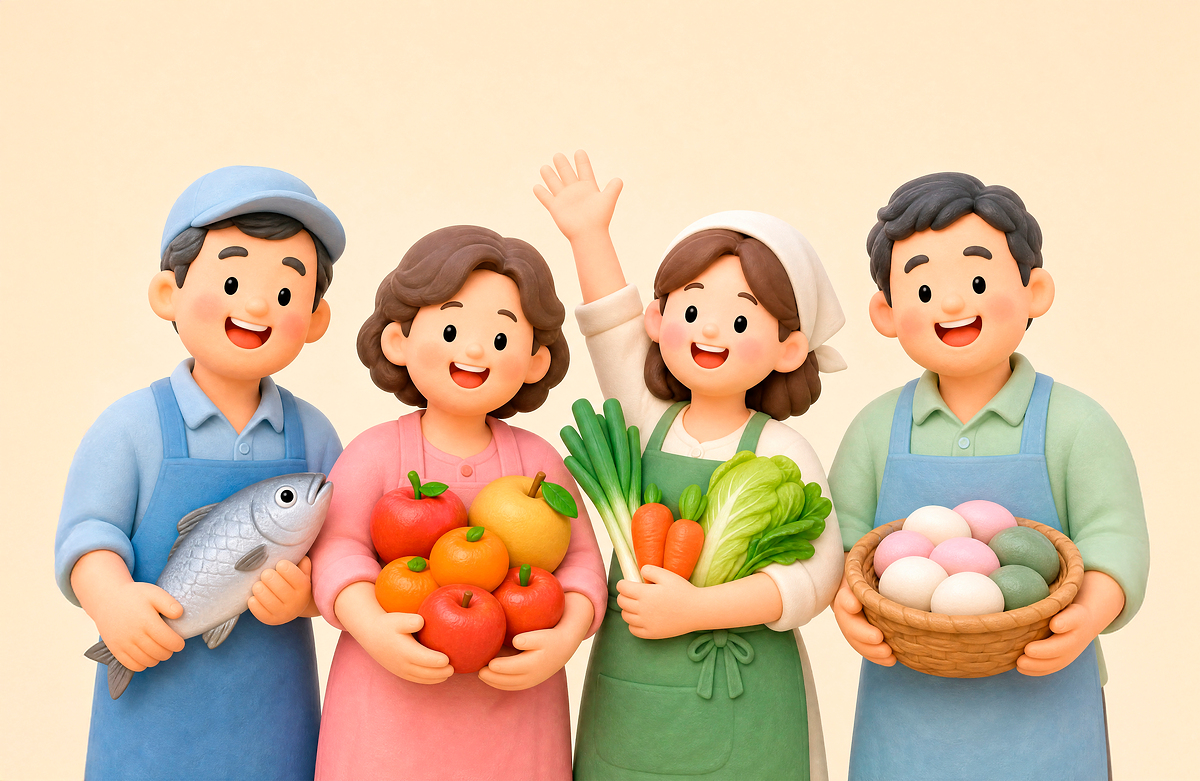
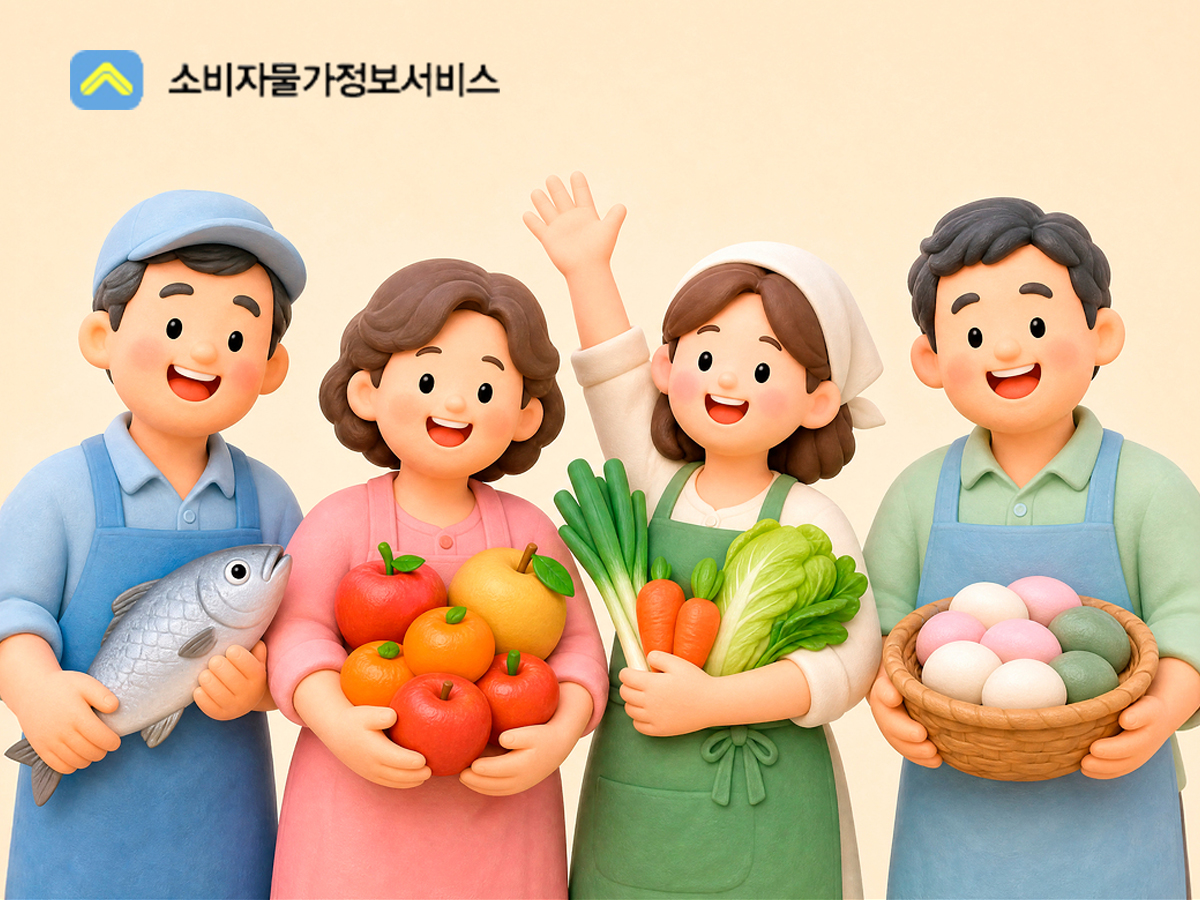
포트폴리오 영역 수정

diff --git a/index.html b/index.html
@@ -96,11 +96,7 @@
             </div>
 
             <div class="project-list">
-              <a class="project-card" aria-label="법제처 국가법령정보센터 상세 설명 새 창 열림" data-cursor="VIEW" href="https://app.notion.com/p/3be8c72c7f6f80be93f3da1cd67993e3?source=copy_link" target="_blank">
-                <div class="project-meta">
-                  <span>01</span>
-                  <em>WEB</em>
-                </div>
+              <a class="project-card" aria-label="법제처 국가법령정보센터 상세 설명 새 창 열림" data-cursor="VIEW" href="https://spiky-cereal-c6c.notion.site/3dd8c72c7f6f80e3b13af34782ce3ec7?pvs=74" target="_blank">
                 <div class="project-visual">
                   <img src="./assets/images/work/img-thumb-law2.webp" alt="">
                 </div>
@@ -110,13 +106,9 @@
                 </div>
               </a>
 
-              <a class="project-card" aria-label="중앙노동위원회 온라인사건신청 상세 설명 새 창 열림" data-cursor="VIEW" href="https://app.notion.com/p/3be8c72c7f6f80be93f3da1cd67993e3?source=copy_link" target="_blank">
-                <div class="project-meta">
-                  <span>02</span>
-                  <em>WEB</em>
-                </div>
+              <a class="project-card" aria-label="중앙노동위원회 온라인사건신청 상세 설명 새 창 열림" data-cursor="VIEW" href="https://spiky-cereal-c6c.notion.site/3be8c72c7f6f80be93f3da1cd67993e3" target="_blank">
                 <div class="project-visual">
-                  <img src="./assets/images/work/img-thumb-nlrc2.jpg" alt="">
+                  <img src="./assets/images/work/img-thumb-nlrc2.webp" alt="">
                 </div>
                 <div class="project-footer">
                   <p>안정화 및 웹접근성 지원</p>
@@ -124,11 +116,7 @@
                 </div>
               </a>
 
-              <a class="project-card" aria-label="안전보건공단 종합포털 상세 설명 새 창 열림" data-cursor="VIEW" href="https://app.notion.com/p/3be8c72c7f6f8093b109cabbd47119b7?source=copy_link" target="_blank">
-                <div class="project-meta">
-                  <span>03</span>
-                  <em>WEB</em>
-                </div>
+              <a class="project-card" aria-label="안전보건공단 종합포털 상세 설명 새 창 열림" data-cursor="VIEW" href="https://spiky-cereal-c6c.notion.site/3be8c72c7f6f8093b109cabbd47119b7" target="_blank">
                 <div class="project-visual">
                   <img src="./assets/images/work/img-thumb-kosha.jpg" alt="">
                 </div>
@@ -138,11 +126,7 @@
                 </div>
               </a>
 
-              <a class="project-card" aria-label="한국중소벤처기업유통원 데이터관리시스템 상세 설명 새 창 열림" data-cursor="VIEW" href="https://app.notion.com/p/3be8c72c7f6f80bdbc1edc582249ab8b?source=copy_link" target="_blank">
-                <div class="project-meta">
-                  <span>04</span>
-                  <em>WEB</em>
-                </div>
+              <a class="project-card" aria-label="한국중소벤처기업유통원 데이터관리시스템 상세 설명 새 창 열림" data-cursor="VIEW" href="https://spiky-cereal-c6c.notion.site/3be8c72c7f6f80bdbc1edc582249ab8b" target="_blank">
                 <div class="project-visual">
                   <img src="./assets/images/work/img-thumb-kodmap.jpg" alt="">
                 </div>
@@ -152,11 +136,7 @@
                 </div>
               </a>
 
-              <a class="project-card" aria-label="고용노동부 청년일자리정책 홍보페이지 상세 설명 새 창 열림" data-cursor="VIEW" href="https://app.notion.com/p/3be8c72c7f6f80be93f3da1cd67993e3?source=copy_link" target="_blank">
-                <div class="project-meta">
-                  <span>05</span>
-                  <em>WEB</em>
-                </div>
+              <a class="project-card" aria-label="고용노동부 청년일자리정책 홍보페이지 상세 설명 새 창 열림" data-cursor="VIEW" href="https://spiky-cereal-c6c.notion.site/3bf8c72c7f6f80659ef3c904755da2aa" target="_blank">
                 <div class="project-visual">
                   <img src="./assets/images/work/img-thumb-godragon1.png" alt="">
                 </div>
@@ -166,11 +146,7 @@
                 </div>
               </a>
 
-              <a class="project-card" aria-label="현대글로비스 이케아 배송기사 전용 앱 상세 설명 새 창 열림" data-cursor="VIEW" href="https://app.notion.com/p/3be8c72c7f6f80be93f3da1cd67993e3?source=copy_link" target="_blank">
-                <div class="project-meta">
-                  <span>06</span>
-                  <em>APP</em>
-                </div>
+              <a class="project-card" aria-label="현대글로비스 이케아 배송기사 전용 앱 상세 설명 새 창 열림" data-cursor="VIEW" href="https://spiky-cereal-c6c.notion.site/3bf8c72c7f6f80b181cfc125db6f8d04" target="_blank">
                 <div class="project-visual">
                   <img src="./assets/images/work/img-thumb-glovis1.webp" alt="">
                 </div>
@@ -180,13 +156,9 @@
                 </div>
               </a>
 
-              <a class="project-card" aria-label="범정부 데이터 분석시스템 상세 설명 새 창 열림" data-cursor="VIEW" href="https://app.notion.com/p/3be8c72c7f6f80be93f3da1cd67993e3?source=copy_link" target="_blank">
-                <div class="project-meta">
-                  <span>07</span>
-                  <em>WEB</em>
-                </div>
+              <a class="project-card" aria-label="범정부 데이터 분석시스템 상세 설명 새 창 열림" data-cursor="VIEW" href="https://spiky-cereal-c6c.notion.site/2-3bf8c72c7f6f8088a4c8fdd35b9f7fcc" target="_blank">
                 <div class="project-visual">
-                  <img src="./assets/images/work/img-thumb-kosha.jpg" alt="">
+                  <img src="./assets/images/work/img-thumb-insight.webp" alt="">
                 </div>
                 <div class="project-footer">
                   <p>데이터 통합 관리 플랫폼 구축</p>
@@ -194,13 +166,9 @@
                 </div>
               </a>
 
-              <a class="project-card" aria-label="숭실사이버대학교 학습 관리 시스템(LMS) 상세 설명 새 창 열림" data-cursor="VIEW" href="https://app.notion.com/p/3be8c72c7f6f80be93f3da1cd67993e3?source=copy_link" target="_blank">
-                <div class="project-meta">
-                  <span>08</span>
-                  <em>WEB</em>
-                </div>
+              <a class="project-card" aria-label="숭실사이버대학교 학습 관리 시스템(LMS) 상세 설명 새 창 열림" data-cursor="VIEW" href="https://spiky-cereal-c6c.notion.site/LMS-3bf8c72c7f6f801b87f3e460b93faf39" target="_blank">
                 <div class="project-visual">
-                  <img src="./assets/images/temp-01.webp" alt="">
+                  <img src="./assets/images/work/img-thumb-kcu1.webp" alt="">
                 </div>
                 <div class="project-footer">
                   <p>LMS 및 대시보드 UI 퍼블리싱</p>
@@ -208,13 +176,9 @@
                 </div>
               </a>
 
-              <a class="project-card" aria-label="한국소비자단체협의회 소비자물가정보서비스 상세 설명 새 창 열림" data-cursor="VIEW" href="https://app.notion.com/p/3be8c72c7f6f80be93f3da1cd67993e3?source=copy_link" target="_blank">
-                <div class="project-meta">
-                  <span>09</span>
-                  <em>WEB</em>
-                </div>
+              <a class="project-card" aria-label="한국소비자단체협의회 소비자물가정보서비스 상세 설명 새 창 열림" data-cursor="VIEW" href="https://spiky-cereal-c6c.notion.site/3bf8c72c7f6f807186f4c81a3e37fa81" target="_blank">
                 <div class="project-visual">
-                  <img src="./assets/images/temp-01.webp" alt="">
+                  <img src="./assets/images/work/img-thumb-kcprice2.jpg" alt="">
                 </div>
                 <div class="project-footer">
                   <p>메인 및 관리자 페이지 구축</p>
@@ -222,13 +186,9 @@
                 </div>
               </a>
 
-              <a class="project-card" aria-label="비상교육 ELiF 학습 화면 상세 설명 새 창 열림" data-cursor="VIEW" href="https://app.notion.com/p/3be8c72c7f6f80be93f3da1cd67993e3?source=copy_link" target="_blank">
-                <div class="project-meta">
-                  <span>10</span>
-                  <em>WEB</em>
-                </div>
+              <a class="project-card" aria-label="비상교육 ELiF 학습 화면 상세 설명 새 창 열림" data-cursor="VIEW" href="https://spiky-cereal-c6c.notion.site/ELiF-3bf8c72c7f6f80c2ab0fd645657e3229" target="_blank">
                 <div class="project-visual">
-                  <img src="./assets/images/temp-01.webp" alt="">
+                  <img src="./assets/images/work/img-thumb-elif2.webp" alt="">
                 </div>
                 <div class="project-footer">
                   <p>학습 화면 퍼블리싱</p>
@@ -236,13 +196,9 @@
                 </div>
               </a>
 
-              <a class="project-card" aria-label="한겨레 지국관리/하니누리 관리자 상세 설명 새 창 열림" data-cursor="VIEW" href="https://app.notion.com/p/3be8c72c7f6f80be93f3da1cd67993e3?source=copy_link" target="_blank">
-                <div class="project-meta">
-                  <span>11</span>
-                  <em>WEB</em>
-                </div>
+              <a class="project-card" aria-label="한겨레 지국관리/하니누리 관리자 상세 설명 새 창 열림" data-cursor="VIEW" href="https://spiky-cereal-c6c.notion.site/3bf8c72c7f6f80919d86e2e2f2ffdc32" target="_blank">
                 <div class="project-visual">
-                  <img src="./assets/images/temp-01.webp" alt="">
+                  <img src="./assets/images/work/img-thumb-hani2.webp" alt="">
                 </div>
                 <div class="project-footer">
                   <p>관리자 사이트 구축</p>
@@ -250,13 +206,9 @@
                 </div>
               </a>
 
-              <a class="project-card" aria-label="국립현대미술관 MMCA 상세 설명 새 창 열림" data-cursor="VIEW" href="https://app.notion.com/p/3be8c72c7f6f80be93f3da1cd67993e3?source=copy_link" target="_blank">
-                <div class="project-meta">
-                  <span>12</span>
-                  <em>WEB</em>
-                </div>
+              <a class="project-card" aria-label="국립현대미술관 MMCA 상세 설명 새 창 열림" data-cursor="VIEW" href="https://spiky-cereal-c6c.notion.site/3bf8c72c7f6f8061b14de746b2dc9763" target="_blank">
                 <div class="project-visual">
-                  <img src="./assets/images/temp-01.webp" alt="">
+                  <img src="./assets/images/work/img-thumb-mmca6.webp" alt="">
                 </div>
                 <div class="project-footer">
                   <p>안정화 및 UI 개선</p>

diff --git a/assets/css/main.css b/assets/css/main.css
@@ -167,7 +167,7 @@
 
 .section02 .section02-title {
     width: 100%;
-    font: 700 clamp(24px, 1.9vw, 36px)/1.5 var(--font-en);
+    font: 700 clamp(24px, 1.9vw, 36px) / 1.5 var(--font-en);
 }
 
 .section02 .section02-cont {
@@ -326,7 +326,7 @@
 }
 
 .section03 .section03-heading .section03-title {
-    font: 700 clamp(24px, 1.9vw, 36px)/1.5 var(--font-en);
+    font: 700 clamp(24px, 1.9vw, 36px) / 1.5 var(--font-en);
 }
 
 .section03 .section03-heading .heading-copy {
@@ -340,79 +340,58 @@
     display: grid;
     grid-template-columns: repeat(3, 1fr);
     row-gap: 40px;
+    column-gap: 32px;
 }
 
 .section03 .project-card {
     display: block;
-    padding: 18px;
-    border: 1px solid var(--ink);
-    border-left: 0;
+    /* border: 1px solid var(--ink); */
+    /* border-left: 0; */
+}
+
+.section03 .project-card .project-visual {
     overflow: hidden;
-    transition: background .3s ease;
-}
-
-.section03 .project-card:hover {
-    background: #f0efea;
-}
-
-.section03 .project-card:hover .project-visual {
-    transform: translateY(-8px) !important;
-}
-
-.section03 .project-meta {
     display: flex;
-    justify-content: space-between;
-}
-
-.section03 .project-meta span {
-    font-size: 18px;
-    font-weight: 700;
-}
-
-.section03 .project-meta em {
-    display: flex;
-    align-items: center;
-    padding: 2px 10px;
-    font-size: 13px;
-    color: #fff;
-    border-radius: 100px;
-    background: var(--ink);
-}
-
-.section03 .project-visual {
-    display: flex;
-    width: 100%;
-    /* height: 340px; */
-    place-items: center;
-    margin: 24px 0;
-    transition: transform .5s cubic-bezier(.2, .75, .2, 1);
-}
-
-.section03 .project-visual img {
     width: 100%;
     height: auto;
     aspect-ratio: 4 / 3;
+    place-items: center;
+    margin-bottom: 16px;
+    transition: transform .5s cubic-bezier(.2, .75, .2, 1);
+}
+
+.section03 .project-card .project-visual img {
+    width: 100%;
+    height: 100%;
     object-fit: cover;
+}
+
+.section03 .project-card .project-visual img {
+    transition: transform .3s ease;
+}
+
+.section03 .project-card:hover .project-visual img {
+    transform: scale(1.05);
 }
 
 .section03 .project-footer {
     display: flex;
     flex-direction: column;
-    gap: 8px;
+    gap: 4px;
 }
 
 .section03 .project-footer p {
-    font: 500 15px var(--font-en);
+    font: 400 clamp(13px, 0.8vw, 15px) / 1.3 var(--font-en);
     color: var(--color-muted);
 }
 
 .section03 .project-footer strong {
     margin: 0;
-    font: 700 clamp(20px, 1.5vw, 26px)/1.3 var(--font-body);
+    font: 700 clamp(18px, 1.15vw, 22px) / 1.3 var(--font-body);
     letter-spacing: -0.02em;
 }
 
-@media (min-width:1025px) {
+/* @media (min-width:1025px) {
     .section03 .project-card:nth-child(3n) {
         border-right: 0;
     }
@@ -426,12 +405,12 @@
     .section03 .project-card:nth-child(n+3) {
         border-top: 0;
     }
-}
+} */
 
 @media (max-width:1024px) {
     .section03 .project-list {
         grid-template-columns: repeat(2, 1fr);
-        row-gap: unset;
+        row-gap: 40px;
     }
 
     .section03 .project-visual {
@@ -439,9 +418,9 @@
         height: unset;
     }
 
-    .section03 .project-card {
+    /* .section03 .project-card {
         border-left: 1px solid var(--ink);
-    }
+    } */
 }
 
 @media (max-width:768px) {
@@ -455,13 +434,13 @@
         grid-template-columns: repeat(1, 1fr);
     }
 
-    .section03 .project-card:nth-child(n+2) {
+    /* .section03 .project-card:nth-child(n+2) {
         border-top: 0;
 
     }
     .section03 .project-card:nth-child(even) {
         border-left: 1px solid var(--ink);
-    }
+    } */
 }
 
 .heart {
@@ -498,7 +477,7 @@
 .section04 .section04-inner .section04-title {
     margin-bottom: 80px;
     width: 100%;
-    font: 700 clamp(24px, 1.9vw, 36px)/1.5 var(--font-en);
+    font: 700 clamp(24px, 1.9vw, 36px) / 1.5 var(--font-en);
 }
 
 .section04 .section04-inner .section04-cont {
